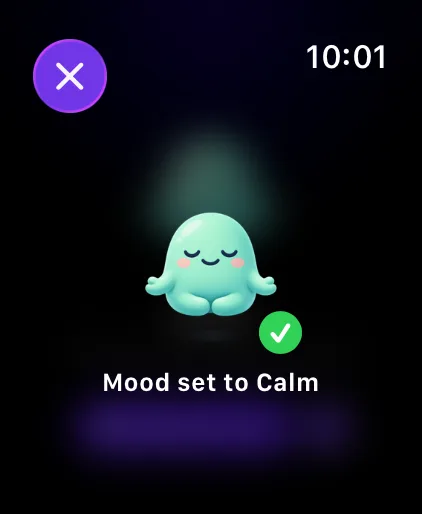
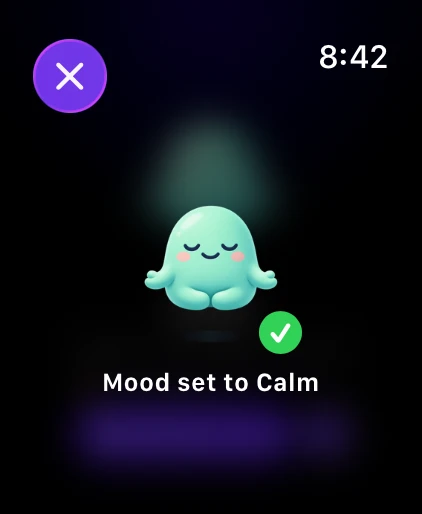
Website: watch mood picker section shows the new album-style picker

Changed region(s): [[0.3389, 0.3735, 0.6777, 0.6226], [0.7393, 0.0623, 0.9242, 0.1556], [0.4313, 0.249, 0.5545, 0.2802]]

diff --git a/website/public/index.html b/website/public/index.html
@@ -89,13 +89,13 @@
       </article>
       <article class="feature" id="watch-mood">
         <div class="watch-steps">
-          <figure><div class="watch-shot"><img src="/img/watch/picker-1-center.webp?v=2" alt="Apple Watch mood picker with the big Joy pal on top, the word Joy below it and a row of the other five pals" width="422" height="514" loading="lazy"></div><figcaption><b>1</b> Your mood up top</figcaption></figure>
-          <figure><div class="watch-shot"><img src="/img/watch/picker-2-swap.webp?v=2" alt="After tapping Calm in the row, the big pal on top is now Calm and Joy is back in the row" width="422" height="514" loading="lazy"></div><figcaption><b>2</b> Tap a mood in the row</figcaption></figure>
-          <figure><div class="watch-shot"><img src="/img/watch/picker-3-set.webp?v=2" alt="Mood set to Calm, with a green check" width="422" height="514" loading="lazy"></div><figcaption><b>3</b> Tap Set Mood</figcaption></figure>
+          <figure><div class="watch-shot"><img src="/img/watch/picker-1-center.webp?v=3" alt="Apple Watch mood picker with the big Joy pal in the middle of a row of pals that get smaller toward the edges, and the word Joy below it" width="422" height="514" loading="lazy"></div><figcaption><b>1</b> Your mood in the middle</figcaption></figure>
+          <figure><div class="watch-shot"><img src="/img/watch/picker-2-swap.webp?v=3" alt="After swiping to Calm, Calm is now the big pal in the middle and Joy has moved to the side" width="422" height="514" loading="lazy"></div><figcaption><b>2</b> Swipe to another pal</figcaption></figure>
+          <figure><div class="watch-shot"><img src="/img/watch/picker-3-set.webp?v=3" alt="Mood set to Calm, with a green check" width="422" height="514" loading="lazy"></div><figcaption><b>3</b> Tap Set Mood</figcaption></figure>
         </div>
-        <div><span class="kicker lilac">New: Pick your mood on Apple Watch</span><h3>Tap a pal to see it up close</h3>
-        <p>Tap your pal on the watch to change your mood. Your current mood sits big and animated at the top, with its name below and the other five pals in a row underneath. Tap any of them, or turn the Digital Crown, and it becomes the big pal so you can see it up close. Nothing changes until you tap Set Mood.</p>
-        <ul><li>Tap your pal to open the mood picker</li><li>Tap a mood in the row to see it up close</li><li>Tap Set Mood to save it and share it with your Circle</li><li>Went back to your heart data on iPhone? Your watch follows too</li></ul></div>
+        <div><span class="kicker lilac">New: Pick your mood on Apple Watch</span><h3>Swipe through your pals</h3>
+        <p>Tap your pal on the watch to change your mood. All six pals sit in one row, like an album selector: your current mood is big and animated in the middle, and the others get smaller toward the edges. Swipe left or right, tap a pal or turn the Digital Crown, and the next one slides into the middle. Nothing changes until you tap Set Mood.</p>
+        <ul><li>Tap your pal to open the mood picker</li><li>Swipe, tap or turn the Digital Crown to bring a pal to the middle</li><li>Tap Set Mood to save it and share it with your Circle</li><li>Went back to your heart data on iPhone? Your watch follows too</li></ul></div>
       </article>
       <article class="feature" id="family">
         <div class="phone" data-screen="family" data-slides="family-location,family-signal,watches-tab,your-day,your-day-reactions"></div>
